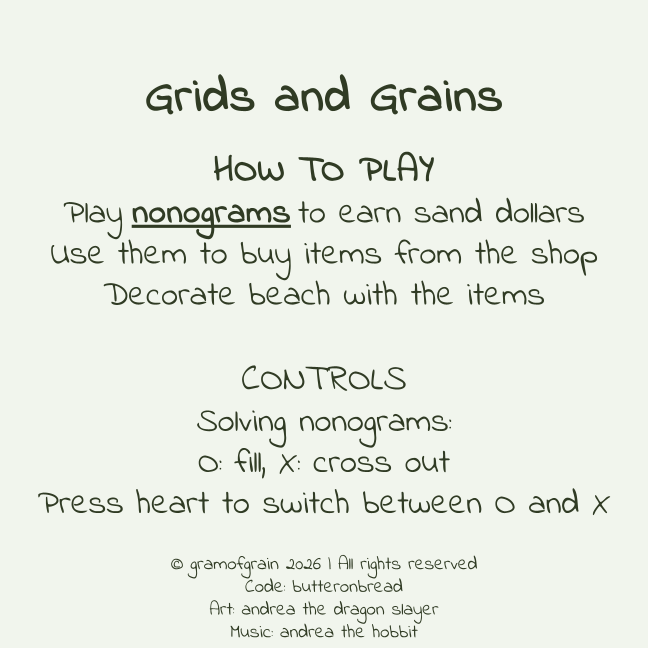
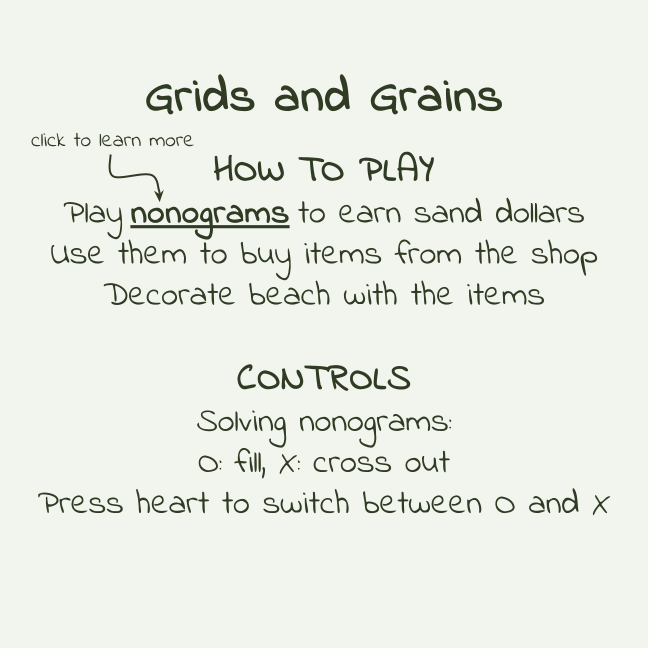
v1.2.5 of Grids and Grains
Step 3 of Better Clues:
Animations for crossing out pixels

diff --git a/src/v1.2.4.py b/src/v1.2.4.py
@@ -25,7 +25,7 @@ PREDRAWN = """15 111111111111111100000010000001101001010100101100000010000001101
 15 000000000000000000001000001110000011100011010000001000110110000000001101100000000011011000001000110110010011101101100111001111011000010000110110000000000111100000000001111110000000011100111000000001000010000000000000000000000""".splitlines()
 
 # testing
-#PREDRAWN = """15 100000000000000000000000000000000000000000000000000000000000000000000000000000000000000000000000000000000000000000000000000000000000000000000000000000000000000000000000000000000000000000000000000000000000000000000000000000000""".splitlines()
+PREDRAWN = """15 100000000000000000000000000000000000000000000000000000000000000000000000000000000000000000000000000000000000000000000000000000000000000000000000000000000000000000000000000000000000000000000000000000000000000000000000000000000""".splitlines()
 
 if platform.system() == "Emscripten":
     from js import window
@@ -414,20 +414,9 @@ def drawBoard(size, screen, colors, board, gap, w, cellW, boardRects, crossImg, 
                 if cellTimers[y][x] <= 0:
                     cellTimers[y][x] = 0
                     board[y][x] = 0
-
-            elif 3 > board[y][x] > 2: # animation for crossed out (range = 3.9 -> 3.1)
-                pygame.draw.rect(screen, colors[0], boardRects[y][x])
-                newW = (3 - board[y][x]) * cellW
-                screen.blit(pygame.transform.scale(crossImg, (newW, newW)), (boardRects[y][x].x + (cellW - newW)/2, boardRects[y][x].y + (cellW - newW)/2))
-                board[y][x] -= 0.1
-
-                if board[y][x] < 2.1:
-                    board[y][x] = 2
-
             elif board[y][x] == 2: # crossed out
                 pygame.draw.rect(screen, colors[0], boardRects[y][x])
                 screen.blit(crossImg, (boardRects[y][x].x, boardRects[y][x].y))
-
             else: # filled in or empty
                 pygame.draw.rect(screen, colors[board[y][x]], boardRects[y][x])
 
@@ -476,6 +465,8 @@ def addInfo(size, infos, boardSolution, boardSolving):
             for i in range(len(infos[xy][n])):
                 infos[xy][n][i] = str(len(infos[xy][n][i])) # turn into list by finding length
 
+    boardSolving = autoCross(boardSolving, boardSolution, size)
+
     return infos, boardSolving
 
 def drawInfo(yinfoRects, xinfoRects, size, infos):
@@ -520,24 +511,24 @@ def autoCross(boardSolving, boardSolution, size):
     for y in range(size): # rows
         same = True
         for x in range(size):
-            if boardSolving[y][x] != boardSolution[y][x] and math.floor(boardSolving[y][x]) != 2:
+            if boardSolving[y][x] != boardSolution[y][x] and boardSolving[y][x] != 2:
                 same = False
 
         if same:
             for x in range(size):
-                if boardSolving[y][x] == 0:
-                    boardSolving[y][x] = 2.9
+                if boardSolving[y][x] != 1:
+                    boardSolving[y][x] = 2
 
     for x in range(size):
         same = True
         for y in range(size):
-            if boardSolving[y][x] != boardSolution[y][x] and math.floor(boardSolving[y][x]) != 2:
+            if boardSolving[y][x] != boardSolution[y][x] and boardSolving[y][x] != 2:
                 same = False
 
         if same:
             for y in range(size):
-                if boardSolving[y][x] == 0:
-                    boardSolving[y][x] = 2.9
+                if boardSolving[y][x] != 1:
+                    boardSolving[y][x] = 2
 
     return boardSolving
 
@@ -1760,7 +1751,7 @@ async def main():
                             and (boardSolving[y][x] == 0 or boardSolving[y][x] == 3)\
                                 and not solveDown and XO == "X":
                         if boardSolution[y][x] == 0:
-                            boardSolving[y][x] = 2.9
+                            boardSolving[y][x] = 2
                         else:
                             boardSolving[y][x] = 3
                             cellTimers[y][x] = 60

diff --git a/src/1.2.5.py b/src/1.2.5.py
@@ -414,9 +414,20 @@ def drawBoard(size, screen, colors, board, gap, w, cellW, boardRects, crossImg, 
                 if cellTimers[y][x] <= 0:
                     cellTimers[y][x] = 0
                     board[y][x] = 0
+
+            elif 3 > board[y][x] > 2: # animation for crossed out (range = 3.9 -> 3.1)
+                pygame.draw.rect(screen, colors[0], boardRects[y][x])
+                newW = (3 - board[y][x]) * cellW
+                screen.blit(pygame.transform.scale(crossImg, (newW, newW)), (boardRects[y][x].x + (cellW - newW)/2, boardRects[y][x].y + (cellW - newW)/2))
+                board[y][x] -= 0.1
+
+                if board[y][x] < 2.1:
+                    board[y][x] = 2
+
             elif board[y][x] == 2: # crossed out
                 pygame.draw.rect(screen, colors[0], boardRects[y][x])
                 screen.blit(crossImg, (boardRects[y][x].x, boardRects[y][x].y))
+
             else: # filled in or empty
                 pygame.draw.rect(screen, colors[board[y][x]], boardRects[y][x])
 
@@ -465,8 +476,6 @@ def addInfo(size, infos, boardSolution, boardSolving):
             for i in range(len(infos[xy][n])):
                 infos[xy][n][i] = str(len(infos[xy][n][i])) # turn into list by finding length
 
-    boardSolving = autoCross(boardSolving, boardSolution, size)
-
     return infos, boardSolving
 
 def drawInfo(yinfoRects, xinfoRects, size, infos):
@@ -511,24 +520,24 @@ def autoCross(boardSolving, boardSolution, size):
     for y in range(size): # rows
         same = True
         for x in range(size):
-            if boardSolving[y][x] != boardSolution[y][x] and boardSolving[y][x] != 2:
+            if boardSolving[y][x] != boardSolution[y][x] and math.floor(boardSolving[y][x]) != 2:
                 same = False
 
         if same:
             for x in range(size):
-                if boardSolving[y][x] != 1:
-                    boardSolving[y][x] = 2
+                if boardSolving[y][x] == 0:
+                    boardSolving[y][x] = 2.9
 
     for x in range(size):
         same = True
         for y in range(size):
-            if boardSolving[y][x] != boardSolution[y][x] and boardSolving[y][x] != 2:
+            if boardSolving[y][x] != boardSolution[y][x] and math.floor(boardSolving[y][x]) != 2:
                 same = False
 
         if same:
             for y in range(size):
-                if boardSolving[y][x] != 1:
-                    boardSolving[y][x] = 2
+                if boardSolving[y][x] == 0:
+                    boardSolving[y][x] = 2.9
 
     return boardSolving
 
@@ -1751,7 +1760,7 @@ async def main():
                             and (boardSolving[y][x] == 0 or boardSolving[y][x] == 3)\
                                 and not solveDown and XO == "X":
                         if boardSolution[y][x] == 0:
-                            boardSolving[y][x] = 2
+                            boardSolving[y][x] = 2.9
                         else:
                             boardSolving[y][x] = 3
                             cellTimers[y][x] = 60
